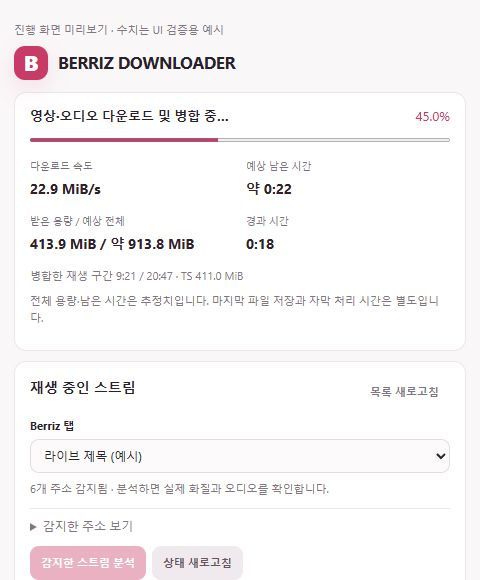
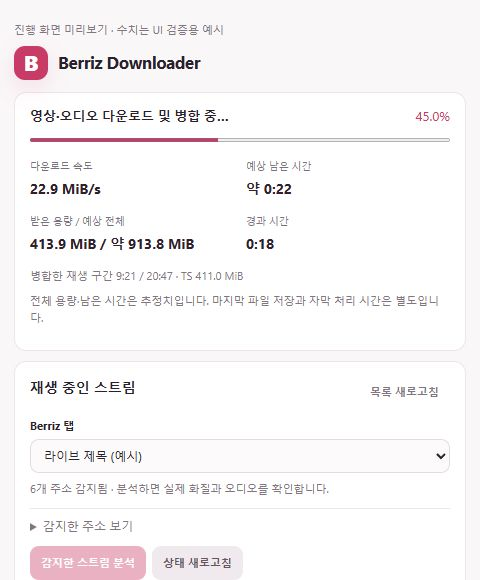
Fix replay metadata selection and rename UI to Berriz Downloader

Changed region(s): [[0.125, 0.0931, 0.5, 0.1241]]

diff --git a/extension/replay-info.js b/extension/replay-info.js
@@ -15,7 +15,8 @@
   }
   function titleOnly(value) {
     const text = clean(value).replace(/\s*[|–—-]\s*(?:Berriz|베리즈).*$/i, '').trim();
-    return /^(?:Like Berries|Berriz|베리즈|로그인|로그인이 필요합니다|LIVE|REPLAY|다시보기|라이브)$/i.test(text) || /^Like Berries,? Berriz/i.test(text) ? '' : text;
+    const counter = /^(?:댓글|채팅|실시간\s*채팅|조회수?|좋아요|comments?|live\s*chat|views?|likes?|コメント)\s*(?:[:：]?\s*[\d,.]+\s*(?:개|명)?|[([]\s*[\d,.]+\s*[)\]])?$/i;
+    return counter.test(text) || /^(?:Like Berries|Berriz|베리즈|로그인|로그인이 필요합니다|LIVE|REPLAY|다시보기|라이브)$/i.test(text) || /^Like Berries,? Berriz/i.test(text) ? '' : text;
   }
   function filename(info) {
     const date = dateOnly(info.date);
@@ -37,23 +38,27 @@
       for (const child of Object.values(value)) if (typeof child === 'object') { if (Array.isArray(child)) child.forEach(walk); else walk(child); }
     };
     for (const script of doc.querySelectorAll('script[type="application/ld+json"]')) { try { walk(JSON.parse(script.textContent)); } catch {} }
-    const video = videos.find(v => String(v.url || v.mainEntityOfPage || '').includes(url.pathname)) || videos[0];
-    const headings = [...scope.querySelectorAll('h1,h2,h3')].filter(h => !h.closest('header,nav,[role="navigation"],[role="dialog"]'));
-    const heading = headings.find(h => titleOnly(h.textContent));
-    const title = titleOnly(video?.name) || titleOnly(heading?.textContent) || titleOnly(meta('meta[property="og:title"]')) || titleOnly(doc.title);
-    // Read metadata near the replay heading before considering the rest of the page.
-    let detail = heading?.parentElement;
-    for (let i = 0; detail && i < 4 && !dateOnly(detail.innerText || detail.textContent); i++) detail = detail.parentElement;
-    const region = detail && detail !== doc.body ? detail : scope;
-    const time = region.querySelector('time[datetime]');
+    const video = videos.find(v => String(v.url || v.mainEntityOfPage || '').includes(url.pathname)) || videos.find(v => !v.url && !v.mainEntityOfPage);
+    // Berriz MediaInfo.Title renders a <p>, not h1/h2/h3. The adjacent
+    // MediaInfo.DateTime and ArtistProfile identify its own metadata block.
+    // Source: fan-community-v1.9.25 modules 70251 / 59741 (2026-11-03).
+    const excluded = 'header,nav,[role="navigation"],[role="dialog"],[role="log"],[class*="comment" i],[class*="chat" i]';
+    const dateSelector = '.h-19.f-body-xs-regular.text-GRAY400';
+    const titleNode = [...scope.querySelectorAll('p.f-body-xxl-semibold.text-GRAY002.break-all')].find(node => !node.closest(excluded) && node.parentElement?.querySelector(dateSelector));
+    const region = titleNode?.parentElement;
+    const title = titleOnly(titleNode?.textContent) || titleOnly(video?.name) || titleOnly(meta('meta[property="og:title"]')) || titleOnly(doc.title);
+    const dateNode = region?.querySelector(dateSelector);
+    // Adjacent date/time spans have no separator in textContent. Read each
+    // date element separately before the combined row (e.g. 2026.11.0222:30).
+    const displayedDate = [...(dateNode?.querySelectorAll?.('time,span') || []), dateNode].map(node => dateOnly(node?.textContent)).find(Boolean) || '';
     const broadcasts = [video?.publication].flat().filter(Boolean);
-    const date = dateOnly(broadcasts.find(b => b.startDate)?.startDate) || dateOnly(video?.startDate) || dateOnly(time?.getAttribute('datetime')) || dateOnly(region.innerText || region.textContent) || dateOnly(meta('meta[property="video:release_date"]'));
+    const date = displayedDate || dateOnly(broadcasts.find(b => b.startDate)?.startDate) || dateOnly(video?.startDate) || dateOnly(meta('meta[property="video:release_date"]'));
     const person = [video?.author || video?.creator].flat().filter(Boolean).map(a => typeof a === 'string' ? a : a.name).filter(Boolean).join(' ');
-    const authorNode = [...region.querySelectorAll('[rel="author"], [itemprop="author"], [data-testid*="author" i], [class*="nickname" i], [class*="artistName" i], [class*="artist-name" i], [class*="authorName" i], [class*="author-name" i]')].find(node => !node.closest('[class*="comment" i],[class*="chat" i],[role="log"]'));
-    const author = clean(person || authorNode?.textContent || meta('meta[name="author"]')).slice(0, 80);
+    const authorNode = region?.querySelector('span.f-body-s-medium.text-GRAY002.line-clamp-1.break-all');
+    const author = clean(authorNode?.textContent || person).slice(0, 80);
     const community = decodeURIComponent(url.pathname.split('/').filter(Boolean)[1] || '').replace(/[-_]+/g, ' ').toUpperCase();
     const artist = author && community && !author.toUpperCase().includes(community) ? `${community} ${author}` : author || community;
-    return { pageUrl: url.origin + url.pathname, title: title.slice(0, 180), date, artist: artist.slice(0, 100) };
+    return { extractorVersion: 2, pageUrl: url.origin + url.pathname, title: title.slice(0, 180), date, artist: artist.slice(0, 100) };
   }
   const api = { dateOnly, titleOnly, filename, extract };
   globalThis.BerrizReplayInfo = api;

diff --git a/extension/manager.html b/extension/manager.html
@@ -1,9 +1,9 @@
 <!doctype html>
 <html lang="ko">
-<head><meta charset="utf-8"><meta name="viewport" content="width=device-width,initial-scale=1"><title>BERRIZ DOWNLOADER</title><link rel="stylesheet" href="manager.css"><link rel="stylesheet" href="subtitles.css"><link rel="stylesheet" href="popup.css"></head>
+<head><meta charset="utf-8"><meta name="viewport" content="width=device-width,initial-scale=1"><title>Berriz Downloader</title><link rel="stylesheet" href="manager.css"><link rel="stylesheet" href="subtitles.css"><link rel="stylesheet" href="popup.css"></head>
 <body>
 <main>
-  <header><span class="brand">B</span><div><h1>BERRIZ DOWNLOADER</h1></div></header>
+  <header><span class="brand">B</span><div><h1>Berriz Downloader</h1></div></header>
   <section class="card">
     <div class="section-heading"><h2>재생 중인 스트림</h2><button id="refresh" class="subtle">목록 새로고침</button></div>
     <label for="source">Berriz 탭</label><select id="source"><option value="">열린 Berriz 탭 없음</option></select>
@@ -30,6 +30,6 @@
     <div class="row"><button id="subtitlesOnly" class="secondary" disabled>선택한 자막만 다운로드</button><span class="muted">위의 TS 다운로드를 누르면 선택한 자막도 함께 받습니다.</span></div>
   </section>
   <section class="card status-card" hidden><div class="section-heading"><h2 id="status" role="status">브라우저 엔진 준비 중…</h2><span id="percent"></span></div><progress id="progress" max="100" value="0"></progress><div class="metrics"><div><small>다운로드 속도</small><strong id="rate">—</strong></div><div><small>예상 남은 시간</small><strong id="eta">—</strong></div><div><small>받은 용량 / 예상 전체</small><strong id="size">—</strong></div><div><small>경과 시간</small><strong id="elapsed">—</strong></div></div><p id="stats" class="muted">대기 중</p><p class="muted">전체 용량·남은 시간은 추정치입니다. 마지막 파일 저장과 자막 처리 시간은 별도입니다.</p><p id="path" class="filepath"></p><div id="savedSubtitles" class="filepath"></div><div id="warnings"></div></section>
-  <footer>v2.1.0 · FFmpeg·도우미 설치 없이 확장만으로 저장합니다.<br>팝업을 닫아도 계속 진행됩니다. 완료될 때까지 브라우저를 켜 두세요.<br>종료된 H.264/AAC TS 다시보기를 지원합니다.</footer>
+  <footer>v2.1.1 · FFmpeg·도우미 설치 없이 확장만으로 저장합니다.<br>팝업을 닫아도 계속 진행됩니다. 완료될 때까지 브라우저를 켜 두세요.<br>종료된 H.264/AAC TS 다시보기를 지원합니다.</footer>
 </main><script src="replay-info.js"></script><script src="manager.js"></script>
 </body></html>

diff --git a/extension/manager.js b/extension/manager.js
@@ -60,7 +60,7 @@ function saveForm() {
     selectedTab, signature: trackSignature, video: $('video').value, audio: $('audio').value,
     name: $('name').value, folder: $('folder').value, manual: $('manual').value,
     subtitleFormat: $('subtitleFormat').value, subtitleDefaultVersion: 1, subtitles: selectedSubtitles().map(track => track.url),
-    nameEdited, metadataEdited, metadataPageUrl, liveDate: $('liveDate').value, liveArtist: $('liveArtist').value, liveTitle: $('liveTitle').value
+    nameEdited, metadataEdited, metadataPageUrl, metadataExtractorVersion: 2, liveDate: $('liveDate').value, liveArtist: $('liveArtist').value, liveTitle: $('liveTitle').value
   } }).catch(showError);
 }
 
@@ -68,7 +68,7 @@ function restoreForm(form) {
   if (!form || form.selectedTab !== selectedTab) return;
   if (form.metadataPageUrl && form.metadataPageUrl !== metadataPageUrl) return;
   nameEdited = form.nameEdited === true;
-  metadataEdited = form.metadataEdited === true;
+  metadataEdited = form.metadataEdited === true && form.metadataExtractorVersion === 2;
   if (form.metadataPageUrl && form.metadataPageUrl === metadataPageUrl && metadataEdited) {
     for (const key of ['liveDate', 'liveArtist', 'liveTitle']) if (typeof form[key] === 'string') $(key).value = form[key];
   }
@@ -114,8 +114,9 @@ function applyGeneratedName() {
 async function refreshMetadata(tab) {
   if (!selectedTab) return;
   const stored = (await chrome.storage.session.get(`meta:${selectedTab}`))[`meta:${selectedTab}`];
-  let metadata = stored?.pageUrl === metadataPageUrl ? stored : null;
+  let metadata = stored?.pageUrl === metadataPageUrl && stored.extractorVersion === 2 ? stored : null;
   if (!metadata) metadata = await chrome.tabs.sendMessage(selectedTab, { type: 'read-replay-metadata' }, { frameId: 0 }).catch(() => null);
+  if (metadata?.extractorVersion !== 2) metadata = null;
   if (!metadataEdited && metadata?.pageUrl === metadataPageUrl) {
     $('liveDate').value = BerrizReplayInfo.dateOnly(metadata.date);
     $('liveArtist').value = metadata.artist || '';

diff --git a/extension/background.js b/extension/background.js
@@ -68,7 +68,7 @@ chrome.runtime.onMessage.addListener((message, sender, reply) => {
       const incoming = message.metadata || {};
       const page = new URL(sender.url);
       if (incoming.pageUrl !== page.origin + page.pathname || !/\/live\/replay\//.test(page.pathname)) throw new Error('현재 다시보기의 정보가 아닙니다.');
-      const metadata = { pageUrl: incoming.pageUrl, title: String(incoming.title || '').slice(0, 180), date: String(incoming.date || '').slice(0, 10), artist: String(incoming.artist || '').slice(0, 100) };
+      const metadata = { extractorVersion: Number(incoming.extractorVersion) || 0, pageUrl: incoming.pageUrl, title: String(incoming.title || '').slice(0, 180), date: String(incoming.date || '').slice(0, 10), artist: String(incoming.artist || '').slice(0, 100) };
       await chrome.storage.session.set({ [`meta:${sender.tab.id}`]: metadata }); return { ok: true };
     })();
   }

diff --git a/RELEASE_NOTES.md b/RELEASE_NOTES.md
@@ -1,47 +1,23 @@
-# BERRIZ DOWNLOADER v2.1.0
+# Berriz Downloader v2.1.1
 
-Berriz 다시보기를 영상과 자막으로 저장하는 브라우저 확장 프로그램입니다. **FFmpeg·yt-dlp·Python·별도 도우미 설치 없이 확장 하나로 사용할 수 있습니다.**
+파일명이 `261102 IVE 댓글 66.ts`처럼 만들어지던 문제를 수정했습니다.
 
-영상과 오디오가 따로 제공되어도 브라우저에서 원본 시간 정보를 유지하며 하나의 TS 파일로 합칩니다. 미디어는 Berriz CDN에서 사용자 브라우저로 직접 받으며, 별도 중계 서버를 거치지 않습니다.
+## 변경 사항
 
-## 주요 기능
+- 이름 표기를 **Berriz Downloader**로 변경했습니다.
+- 페이지의 첫 번째 제목 태그를 읽던 방식을 제거했습니다. 실제 Berriz 미디어 정보 영역의 **라이브 제목·아티스트·날짜**를 읽습니다.
+- 댓글·채팅 영역과 `댓글 66`, `Comments 66` 같은 개수 표시를 제목 후보에서 제외했습니다.
+- 날짜와 시간이 붙어 읽혀도 날짜가 빠지지 않도록 수정했습니다.
+- 이전 방식으로 수집한 자동 파일명 정보는 사용하지 않고 다시 읽습니다.
 
-- 팝업을 열면 감지된 스트림 자동 분석
-- 제공되는 최고 화질 기본 선택 및 화질 변경
-- 재인코딩 없는 영상·오디오 TS 병합
-- 다국어 자막 선택, 영상과 함께 받기 또는 자막만 받기
-- **SRT 기본값**, VTT 또는 두 형식 동시 저장 지원
-- 다운로드 속도, 진행률, 받은 용량, 예상 전체 용량·남은 시간 표시
-- 팝업을 닫아도 계속 다운로드하고 다시 열면 진행 상태 복원
+파일명 형식은 `261102 IVE 안유진 라이브 제목.ts`입니다. 페이지에서 확인되지 않은 정보는 임의로 채우지 않으며, 파일 이름 정보 입력란에서 보완할 수 있습니다.
 
-## 이번 버전의 수정과 개선
+## 업데이트 방법
 
-- **TXT 확장자 문제 수정**: TS·SRT·VTT에 각각 맞는 MIME을 지정하고, 브라우저가 최종 파일명을 정할 때도 요청한 확장자를 적용합니다.
-- **자동 파일명**: 사용 중인 로그인된 재생 페이지의 HTML에서 날짜·아티스트·제목을 읽어 `261102 IVE 안유진 라이브 제목.ts`처럼 제안합니다. 누락된 정보는 입력란에서 보완할 수 있습니다.
-- **다음 조각 미리 받기**: 영상·오디오 조각 요청의 대기를 줄였습니다. 원래부터 별도의 다운로드 속도 상한은 없습니다.
+1. Assets에서 **Berriz-Replay-Saver-v2.1.1.zip**을 받아 압축을 풉니다.
+2. 새 폴더를 확장으로 로드하거나, 기존 확장 폴더를 교체한 뒤 확장 관리 화면에서 **새로고침(↻)**을 누릅니다.
+3. **Berriz 다시보기 탭도 새로고침**한 뒤 확장 팝업을 다시 엽니다. 이 과정이 있어야 새 정보 추출 코드가 재생 페이지에 적용됩니다.
 
-## 팝업과 자막
+현재 배포된 사이트 코드에서 확인한 HTML 구조를 재현하고, 댓글 제목이 먼저 나오는 경우에도 라이브 제목·안유진·날짜가 선택되는 것을 브라우저에서 확인했습니다. 회귀 검사는 29개 통과했습니다. 로그인된 실제 재생 페이지에서의 확인은 아직 수행하지 않았습니다.
 
-- 제목을 **BERRIZ DOWNLOADER**로 정리했습니다.
-- 자막 목록 옆의 표시가 선택한 저장 형식에 따라 **SRT / VTT / SRT + VTT**로 바뀝니다.
-- 다운로드 전에는 진행 패널을 숨기고, 다운로드를 시작하면 팝업 상단에 표시합니다.
-- 다운로드 중에는 자동 스트림 분석이 작업을 방해하지 않습니다.
-
-## 설치
-
-1. 아래 **Assets**에서 **`Berriz-Replay-Saver-v2.1.0.zip`**을 받습니다. `Source code` ZIP과는 다릅니다.
-2. 압축을 풀고 브라우저 확장 관리 페이지에서 **개발자 모드**를 켭니다.
-3. **압축해제된 확장 프로그램을 로드**를 누르고 **`manifest.json`이 바로 들어 있는 폴더**를 선택합니다.
-4. 기존 사용자도 업데이트 후 **Berriz 재생 탭을 새로고침**하고 다시보기를 재생한 다음 확장 아이콘을 누릅니다.
-
-Chrome: `chrome://extensions` · Edge: `edge://extensions` · Whale: `whale://extensions`
-
-저장 위치는 **브라우저 기본 다운로드 폴더 / Berriz**입니다. 설치 스크립트나 외부 프로그램은 필요하지 않습니다. 자막도 `261102 IVE 안유진 라이브 제목.ko.srt`처럼 영상과 같은 이름으로 저장합니다. 자세한 사용법은 [README](https://github.com/reiseo/berriz-downloader#readme)를 참고하세요.
-
-## 지원 범위와 확인 사항
-
-종료된 H.264 + AAC, MPEG-TS 기반 HLS 다시보기를 지원합니다. 진행 중인 라이브, DRM·암호화, fMP4, 타임라인 단절 스트림과 이어받기는 지원하지 않습니다. Chrome 116 이상에 해당하는 Chromium API가 필요하며 파생 브라우저의 지원 여부는 버전에 따라 다를 수 있습니다.
-
-전체 FHD 미디어의 JavaScript 병합과 원본 데이터 일치, 자막 변환, 실제 브라우저의 CDN 요청·임시 디스크 저장을 검증했습니다. 실제 설치된 Chrome/Whale 확장에서 전체 다운로드부터 최종 저장까지의 통합 검증은 아직 완료하지 않았습니다.
-
-팝업은 닫아도 되지만 **다운로드가 끝날 때까지 브라우저 전체는 켜 두세요.** 예상 결과 파일 크기의 약 2배 이상 디스크 여유 공간을 권장합니다. 남은 시간과 전체 용량은 추정치입니다.
+[프로젝트 소개와 전체 사용법](https://github.com/reiseo/berriz-downloader#readme)

diff --git a/VERIFICATION.md b/VERIFICATION.md
@@ -1,4 +1,4 @@
-# v2.1.0 검증 기록
+# v2.1.1 검증 기록
 
 검증일: 2026-11-03
 
@@ -21,7 +21,7 @@
 
 ## 자동 검사
 
-로컬 미디어 샘플이 있는 개발 환경에서 **25개 검사 통과**. 미디어 샘플은 공개 저장소에 포함하지 않으므로 새 체크아웃에서는 샘플 관련 한 검사를 건너뛰고 나머지 24개를 실행합니다.
+로컬 미디어 샘플이 있는 개발 환경에서 **29개 검사 통과**. 미디어 샘플은 공개 저장소에 포함하지 않으므로 새 체크아웃에서는 샘플 관련 한 검사를 건너뛰고 나머지 28개를 실행합니다.
 
 - 동시 스트림 감지, 탭별 격리, 메시지 발신자 제한
 - 팝업 재연결과 진행 상태, 취소·실패·임시 파일 정리
@@ -47,3 +47,13 @@ node --test tests/media-core.test.cjs tests/background.test.cjs tests/offscreen.
 실제 설치된 Chrome/Whale 프로필에서 전체 다운로드부터 최종 저장까지 잇는 통합 검증은 아직 완료하지 않았습니다. `chrome.downloads` 파일명 이벤트와 MIME 변경은 API 대역을 이용한 검사로 확인했습니다.
 
 페이지 정보는 사용자 로그인 탭의 HTML에서 읽으며, 현재 사이트의 모든 페이지 구조·언어에서 필드 감지를 보장하지 않습니다. 이번 파일명 테스트에는 예시 HTML과 구조화된 메타데이터를 사용했습니다. 읽지 못한 필드는 직접 보완할 수 있고, 날짜나 멤버 이름을 임의로 만들어 넣지 않습니다.
+
+
+## v2.1.1 파일명 추출 수정
+
+사이트 `fan-community-v1.9.25`의 실제 배포 코드를 정적으로 확인했습니다. 미디어 정보 구성 모듈 70251은 제목·아티스트·게시 시각을 모듈 59741에 전달하며, 59741은 제목을 `p.f-body-xxl-semibold.text-GRAY002.break-all`, 아티스트 이름을 인접한 `span.f-body-s-medium.text-GRAY002.line-clamp-1.break-all`, 날짜를 같은 정보 블록의 `.h-19.f-body-xs-regular.text-GRAY400` 영역에 표시합니다. 첫 h1/h2/h3를 고르던 로직은 삭제했습니다.
+
+근거: [정보 구성 코드](https://berriz.in/fan-community-v1.9.25/_next/static/chunks/2381-671bc5d1ac3bccec.js), [표시 컴포넌트 코드](https://berriz.in/fan-community-v1.9.25/_next/static/chunks/4966-64d2091693b57b2b.js).
+REA 정적 분석 참조: `ev_84b339b49b0eec5527a2d24e5aabd245961395d5ef5f91765fb1c73c152fea5a`, `ev_52455f8144a4a6b5606e454854cc3e0e571f522b21cfa2a1c5bbe09b8ce3bd2e`. 이는 배포된 코드의 구조에 대한 근거이며 로그인 페이지의 실행 관측은 아닙니다.
+
+그 HTML 구조를 재현한 브라우저 검증에서 앞에 `댓글 66`, 팬 닉네임, 다른 날짜를 배치해도 `261102 IVE 안유진 진짜 라이브 제목`이 생성되는 것을 확인했습니다. 인접한 날짜/시간 span의 textContent가 붙는 경우도 수정했습니다. 제목·댓글·채팅 분리 및 날짜 처리 회귀 검사를 추가했습니다.
